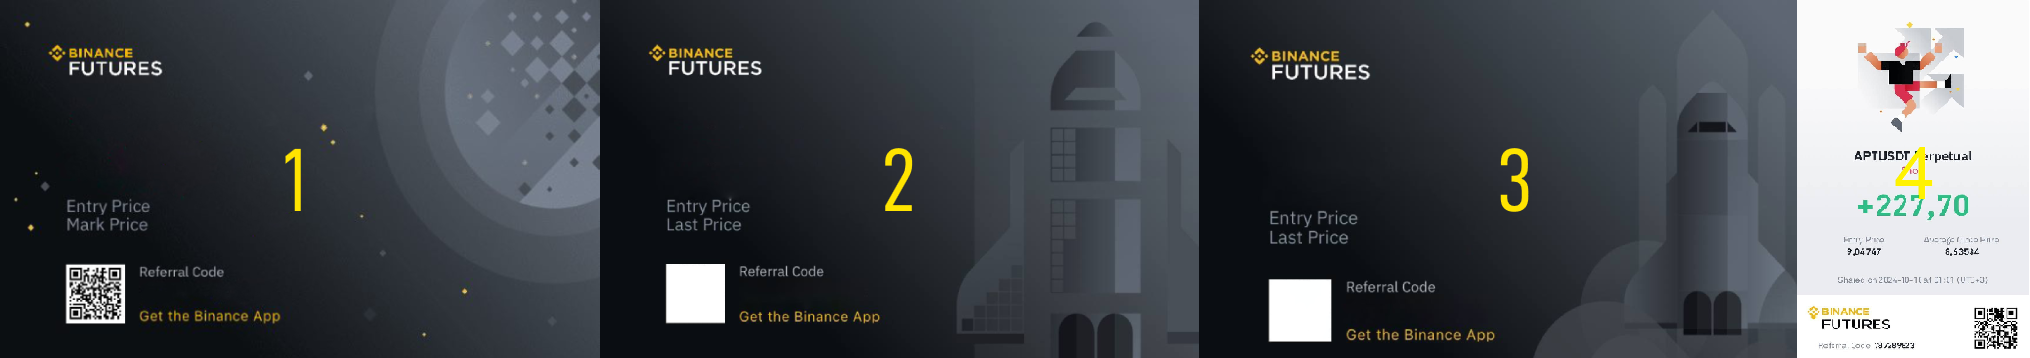
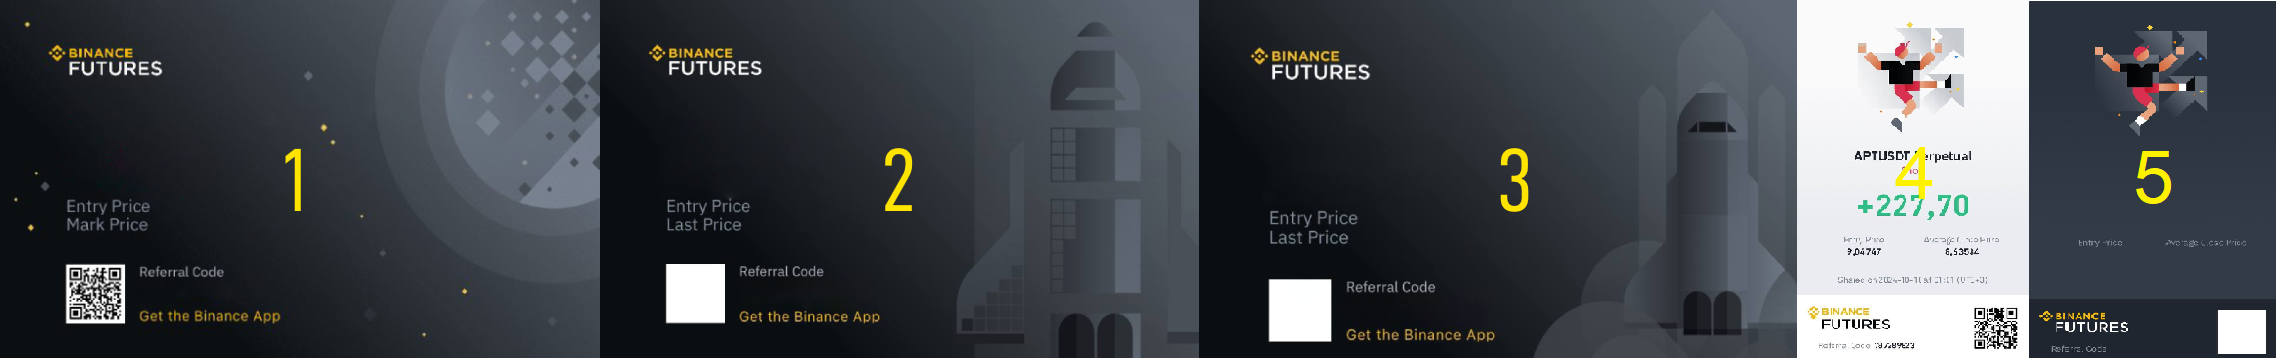
FEAT: Added binance_5

diff --git a/image_gen_classes/BinanceReport.py b/image_gen_classes/BinanceReport.py
@@ -12,7 +12,7 @@ class BinanceReport(Report):
         xy = (symbol_styling.position.x * self.image.size[0], symbol_styling.position.y * self.image.size[1])
         font = ImageFont.truetype(symbol_styling.font, symbol_styling.font_size)
 
-        if self.image_id == "binance_4":
+        if self.image_id in ["binance_4", "binance_5"]:
             draw_centered_text(symbol, xy, symbol_styling, font, self.draw)
         else:
             self.draw.text(xy, symbol, font=ImageFont.truetype(symbol_styling.font, symbol_styling.font_size), fill=symbol_styling.color)
@@ -22,7 +22,7 @@ class BinanceReport(Report):
         font = ImageFont.truetype(roi_styling.font, roi_styling.font_size)
         xy = (roi_styling.position.x * self.image.size[0], roi_styling.position.y * self.image.size[1])
 
-        if self.image_id == "binance_4":
+        if self.image_id in ["binance_4", "binance_5"]:
             roi = roi.replace(".", ",").replace("%", "")
             draw_centered_text(roi, xy, roi_styling, font, self.draw)
 
@@ -30,7 +30,7 @@ class BinanceReport(Report):
             self.draw.text(xy, roi, font=font, fill=roi_styling.color)
 
     def draw_details(self, signal_type, leverage, gen_date, username):
-        if self.image_id != "binance_4":
+        if self.image_id not in ["binance_4", "binance_5"]:
             self.draw_vertical_lines()
             self.draw_leverage(leverage)
 
@@ -48,14 +48,14 @@ class BinanceReport(Report):
         font = ImageFont.truetype(datetime_styling.font, datetime_styling.font_size)
         xy = (datetime_styling.position.x * self.image.size[0], datetime_styling.position.y * self.image.size[1])
         datetime_string = f"Shared on {gen_date.year}-{two_char_long(gen_date.month)}-{two_char_long(gen_date.day)} at {two_char_long(gen_date.hour)}:{two_char_long(gen_date.minute)} (UTC-4)"
-        if self.image_id == "binance_4":
+        if self.image_id in ["binance_4", "binance_5"]:
             draw_centered_text(datetime_string, xy, datetime_styling, font, self.draw)
 
         else:
             self.draw.text(xy, datetime_string, font=font, fill=datetime_styling.color)
 
     def draw_prices(self, entry, target):
-        if self.image_id == "binance_4":
+        if self.image_id in ["binance_4", "binance_5"]:
             entry = entry.replace(".", ",")
             target = target.replace(".", ",")
             self.draw_entry(entry, center_align=True)
@@ -100,7 +100,7 @@ class BinanceReport(Report):
 
         xy = (signal_type_styling.position.x * self.image.size[0], signal_type_styling.position.y * self.image.size[1])
 
-        if self.image_id == "binance_4":
+        if self.image_id in ["binance_4", "binance_5"]:
             draw_centered_text(signal_type, xy, color, ImageFont.truetype(signal_type_styling.font, signal_type_styling.font_size), self.draw)
         else:
             self.draw.text(xy, signal_type, font=ImageFont.truetype(signal_type_styling.font, signal_type_styling.font_size), fill=color)

diff --git a/styling_dict.py b/styling_dict.py
@@ -65,6 +65,21 @@ styling_dict = {
         "gen_date": ElementStyling(position=Position(0.5, 0.768), font="./fonts/DINNextCYR-Regular.ttf", font_size=30, color="#999999"),
         "draw_datetime": True
     },
+    "binance_5": {
+        "vertical_line_1": ElementStyling(position=Position(0.2328, 0.2885)),
+        "vertical_line_2": ElementStyling(position=Position(0.34, 0.2885)),
+        "symbol": ElementStyling(position=Position(0.5, 0.4085), font="./fonts/IBMPlexSans-SemiBold.ttf", font_size=43, color="white"),
+        "signal_type": ElementStyling(position=Position(0.5, 0.456), font="./fonts/IBMPlexSans-Regular.TTF", font_size=34,
+                                      short_color=(217, 83, 116), long_color=(52, 183, 133)),
+        "leverage": ElementStyling(position=Position(0.2734, 0.287), font="./fonts/BAHNSCHRIFT 1.TTF", font_size=30, color=(255, 255, 255)),
+        "roi": ElementStyling(position=Position(0.5, 0.512), font="./fonts/BinancePlex.otf", font_size=110, color=(46, 189, 136)),
+        "entry": ElementStyling(position=Position(0.29, 0.684), font="./fonts/DIN 2014 Demi.ttf", font_size=36, color="white"),
+        "target": ElementStyling(position=Position(0.7, 0.684), font="./fonts/DIN 2014 Demi.ttf", font_size=36, color="white"),
+        "referral": ElementStyling(position=Position(0.33, 0.946), font="./fonts/DIN Next CYR Medium.ttf", font_size=30, color="white"),
+        "qr_code": ElementStyling(position=Position(0.764, 0.854), size=143),
+        "gen_date": ElementStyling(position=Position(0.5, 0.768), font="./fonts/DINNextCYR-Regular.ttf", font_size=30, color="#999999"),
+        "draw_datetime": True
+    },
     "bybit_1": {
         "symbol": ElementStyling(position=Position(0.045, 0.2), font="./fonts/IBMPlexSans-Bold.ttf", font_size=60, color=(255, 255, 255)),
         "signal_type": ElementStyling(position=Position(0.116, 0.21), font="./fonts/IBMPlexSans-Medium.TTF", font_size=30, margin_x=10, margin_y=12,

diff --git a/image_generator.py b/image_generator.py
@@ -54,5 +54,5 @@ def generate_image(image_name, symbol, signal_type, leverage, roi, entry, target
 
 
 if mode == "dev":
-    generate_image("lbank_2.png", "APTUSDT Perpetual", "short", "3X", "+227.70%", "9.04747", "8.63534", "okx_1", "787289823", "test.png",
+    generate_image("binance_5.png", "APTUSDT Perpetual", "long", "3X", "+227.70%", "9.04747", "8.63534", "okx_1", "787289823", "test.png",
                    datetime.datetime.now(), "CANPREMIUM")

diff --git a/keyboards.py b/keyboards.py
@@ -46,6 +46,9 @@ image_binance = InlineKeyboardMarkup([
     [
         InlineKeyboardButton("Binance 3", callback_data="binance_3"),
         InlineKeyboardButton("Binance 4", callback_data="binance_4"),
+    ],
+    [
+        InlineKeyboardButton("Binance 5", callback_data="binance_5"),
     ]
 ])
 
